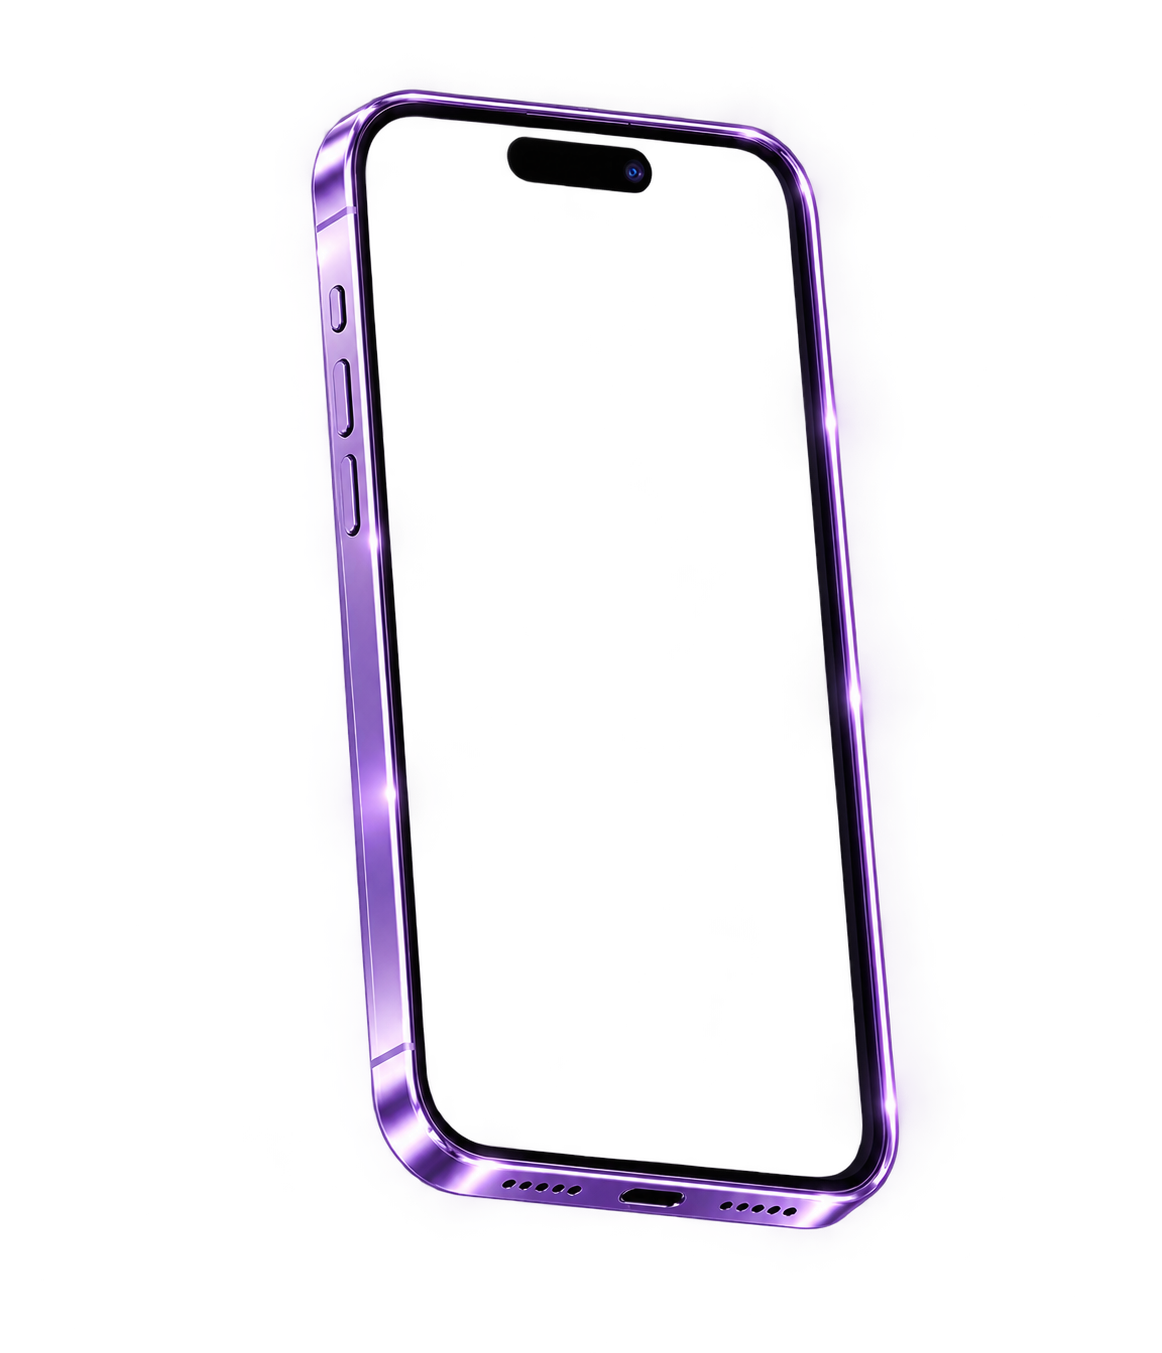
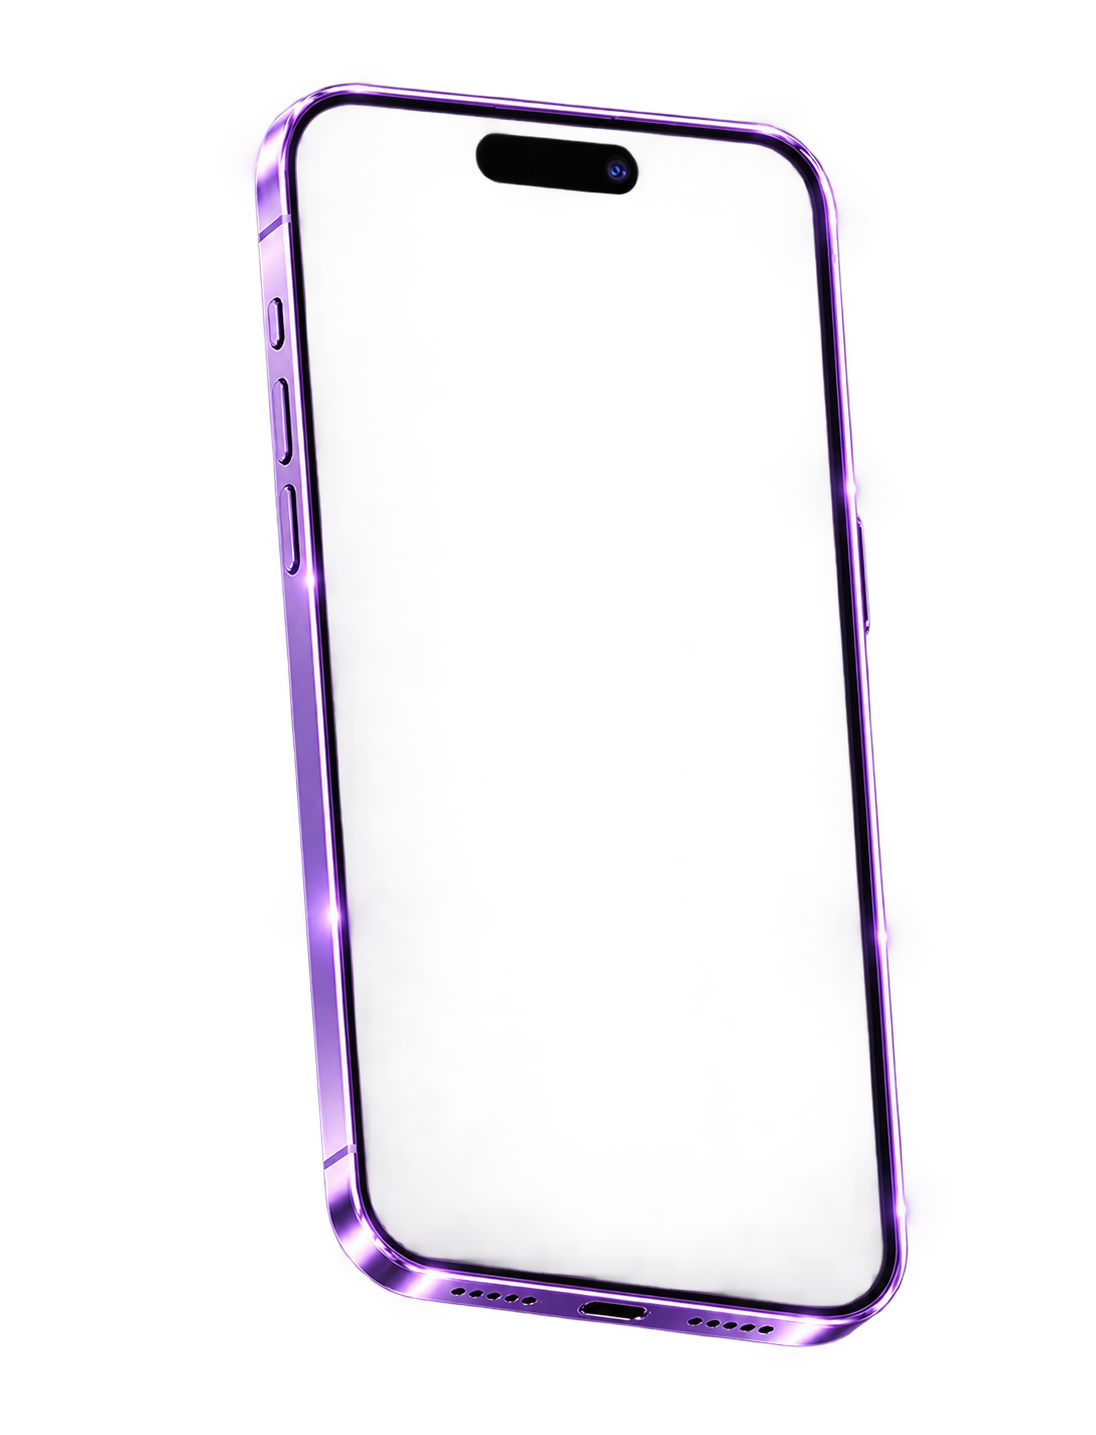
WhatsApp section: front-facing phone, readable chat, alarm beside it
- Use phone_frame_str.png (STRAIGHT_FRAME) for the WhatsApp demo so the
  chat screen sits flat and readable
- Chat is anchored to the input bar like real WhatsApp: new messages push
  older ones up, so the last message is always visible
- Alarm notification never covers the chat: to the right of the phone on
  tablet/desktop, below it on mobile

Changed region(s): [[0.2172, 0.0621, 0.8376, 0.9623]]

diff --git a/src/components/phone/WhatsAppDemo.tsx b/src/components/phone/WhatsAppDemo.tsx
@@ -7,7 +7,7 @@ import { GoogleCalendarIcon, ZoomIcon } from "@/components/icons/brand";
 import { AppMark } from "@/components/ui/Logo";
 import { Screen } from "./Device";
 import { FramedPhone } from "./FramedPhone";
-import { TEAL_FRAME } from "./geometry";
+import { STRAIGHT_FRAME } from "./geometry";
 
 /*
  * A WhatsApp conversation with the MeetingGuard agent, played beat by beat
@@ -33,7 +33,8 @@ function Bubble({ from, time, children }: { from: "me" | "bot"; time?: string; c
   return (
     <motion.div
       {...pop}
-      className={`max-w-[82%] rounded-[14px] px-[12px] pt-[8px] pb-[6px] text-[16px] leading-snug ${
+     
+      className={`max-w-[82%] shrink-0 rounded-[14px] px-[12px] pt-[8px] pb-[6px] text-[16px] leading-snug ${
         me ? "ml-auto rounded-tr-[4px]" : "rounded-tl-[4px]"
       }`}
       style={{ background: me ? WA.out : WA.in, transformOrigin: me ? "100% 0" : "0 0" }}
@@ -51,7 +52,7 @@ function Bubble({ from, time, children }: { from: "me" | "bot"; time?: string; c
 
 function ChatScreen({ step }: { step: number }) {
   return (
-    <Screen className="bg-[#0b141a]" time="16:12" height={TEAL_FRAME.screenH}>
+    <Screen className="bg-[#0b141a]" time="16:12" height={STRAIGHT_FRAME.screenH}>
       {/* contact header */}
       <div className="relative mt-[14px] flex items-center gap-[10px] px-[14px] pb-[12px]" style={{ background: WA.bar }}>
         <ChevronLeft className="h-[24px] w-[24px] text-white/70" aria-hidden />
@@ -68,8 +69,9 @@ function ChatScreen({ step }: { step: number }) {
         <Phone className="ml-[14px] h-[20px] w-[20px] text-white/70" aria-hidden />
       </div>
 
-      <div className="flex flex-col gap-[8px] px-[12px] pt-[14px]">
-        <span className="mx-auto rounded-[8px] px-[10px] py-[3px] text-[12px] text-white/55" style={{ background: WA.in }}>
+      {/* anchored to the input bar: new messages push older ones up, like a real chat */}
+      <div className="absolute inset-x-0 top-[110px] bottom-[92px] flex flex-col justify-end gap-[8px] overflow-hidden px-[12px]">
+        <span className="mx-auto shrink-0 rounded-[8px] px-[10px] py-[3px] text-[12px] text-white/55" style={{ background: WA.in }}>
           Today
         </span>
 
@@ -121,7 +123,7 @@ function ChatScreen({ step }: { step: number }) {
         </AnimatePresence>
 
         {step >= 3 && (
-          <motion.div {...pop} className="w-[86%] overflow-hidden rounded-[14px] rounded-tl-[4px]" style={{ background: WA.in }}>
+          <motion.div {...pop} className="w-[86%] shrink-0 overflow-hidden rounded-[14px] rounded-tl-[4px]" style={{ background: WA.in }}>
             <div className="px-[12px] pt-[8px] pb-[6px] text-[15px] leading-snug">
               <p className="text-white/70">Here&apos;s what I understood:</p>
               <p className="mt-[4px] text-[17px] font-semibold">Investor call with Ana</p>
@@ -219,17 +221,18 @@ export function WhatsAppDemo() {
   }, [inView, reduce, played]);
 
   return (
-    <div ref={ref} className="relative">
+    <div ref={ref} className="relative max-sm:mb-28">
       <div
         aria-hidden
         className="absolute top-1/2 left-1/2 h-[440px] w-[440px] -translate-x-1/2 -translate-y-1/2 rounded-full bg-[radial-gradient(closest-side,rgba(37,211,102,0.18),transparent)] blur-2xl"
       />
       <div className="relative">
-        <FramedPhone frame={TEAL_FRAME} bodyHeight={600} mirror>
+        <FramedPhone frame={STRAIGHT_FRAME} bodyHeight={600} mirror>
           <ChatScreen step={step} />
         </FramedPhone>
       </div>
-      <div className="absolute bottom-[14%] left-1/2 -translate-x-1/2 sm:bottom-[20%] sm:-left-40 sm:translate-x-0">
+      {/* never over the chat: below the phone on small screens, to its right on wider ones */}
+      <div className="absolute top-[calc(100%+18px)] left-1/2 -translate-x-1/2 sm:top-[16%] sm:left-[calc(100%-28px)] sm:translate-x-0">
         <AnimatePresence>{step >= LAST && <AlarmNotification />}</AnimatePresence>
       </div>
     </div>

diff --git a/src/lib/assets.ts b/src/lib/assets.ts
@@ -6,11 +6,12 @@ import bellIcon from "../../public/icons/bell_icon.png";
 import playStoreIcon from "../../public/icons/play_store_icon.png";
 import phoneBlue from "../../public/images/phone_blue.png";
 import phoneFrame from "../../public/images/phone_frame.png";
+import phoneFrameStraight from "../../public/images/phone_frame_str.png";
 import phonePurple from "../../public/images/phone_purple.png";
 import phoneRed from "../../public/images/phone_red.png";
 import phoneTeal from "../../public/images/phone_teal.png";
 
-export const images = { phoneBlue, phoneFrame, phonePurple, phoneRed, phoneTeal };
+export const images = { phoneBlue, phoneFrame, phoneFrameStraight, phonePurple, phoneRed, phoneTeal };
 
 export const icons = {
   app: appIcon,

diff --git a/src/components/phone/geometry.ts b/src/components/phone/geometry.ts
@@ -139,3 +139,21 @@ export const TEAL_FRAME: FrameSpec = {
     930,
   ),
 };
+
+/** phone_frame_str.png — front-facing silver phone (WhatsApp demo). */
+export const STRAIGHT_FRAME: FrameSpec = {
+  src: images.phoneFrameStraight,
+  w: 1024,
+  h: 1536,
+  screenH: 847,
+  body: { x: 176, y: 81, w: 674, h: 1357 },
+  matrix: quadMatrix(
+    [
+      [216, 111],
+      [808, 111],
+      [808, 1397],
+      [216, 1397],
+    ],
+    847,
+  ),
+};
